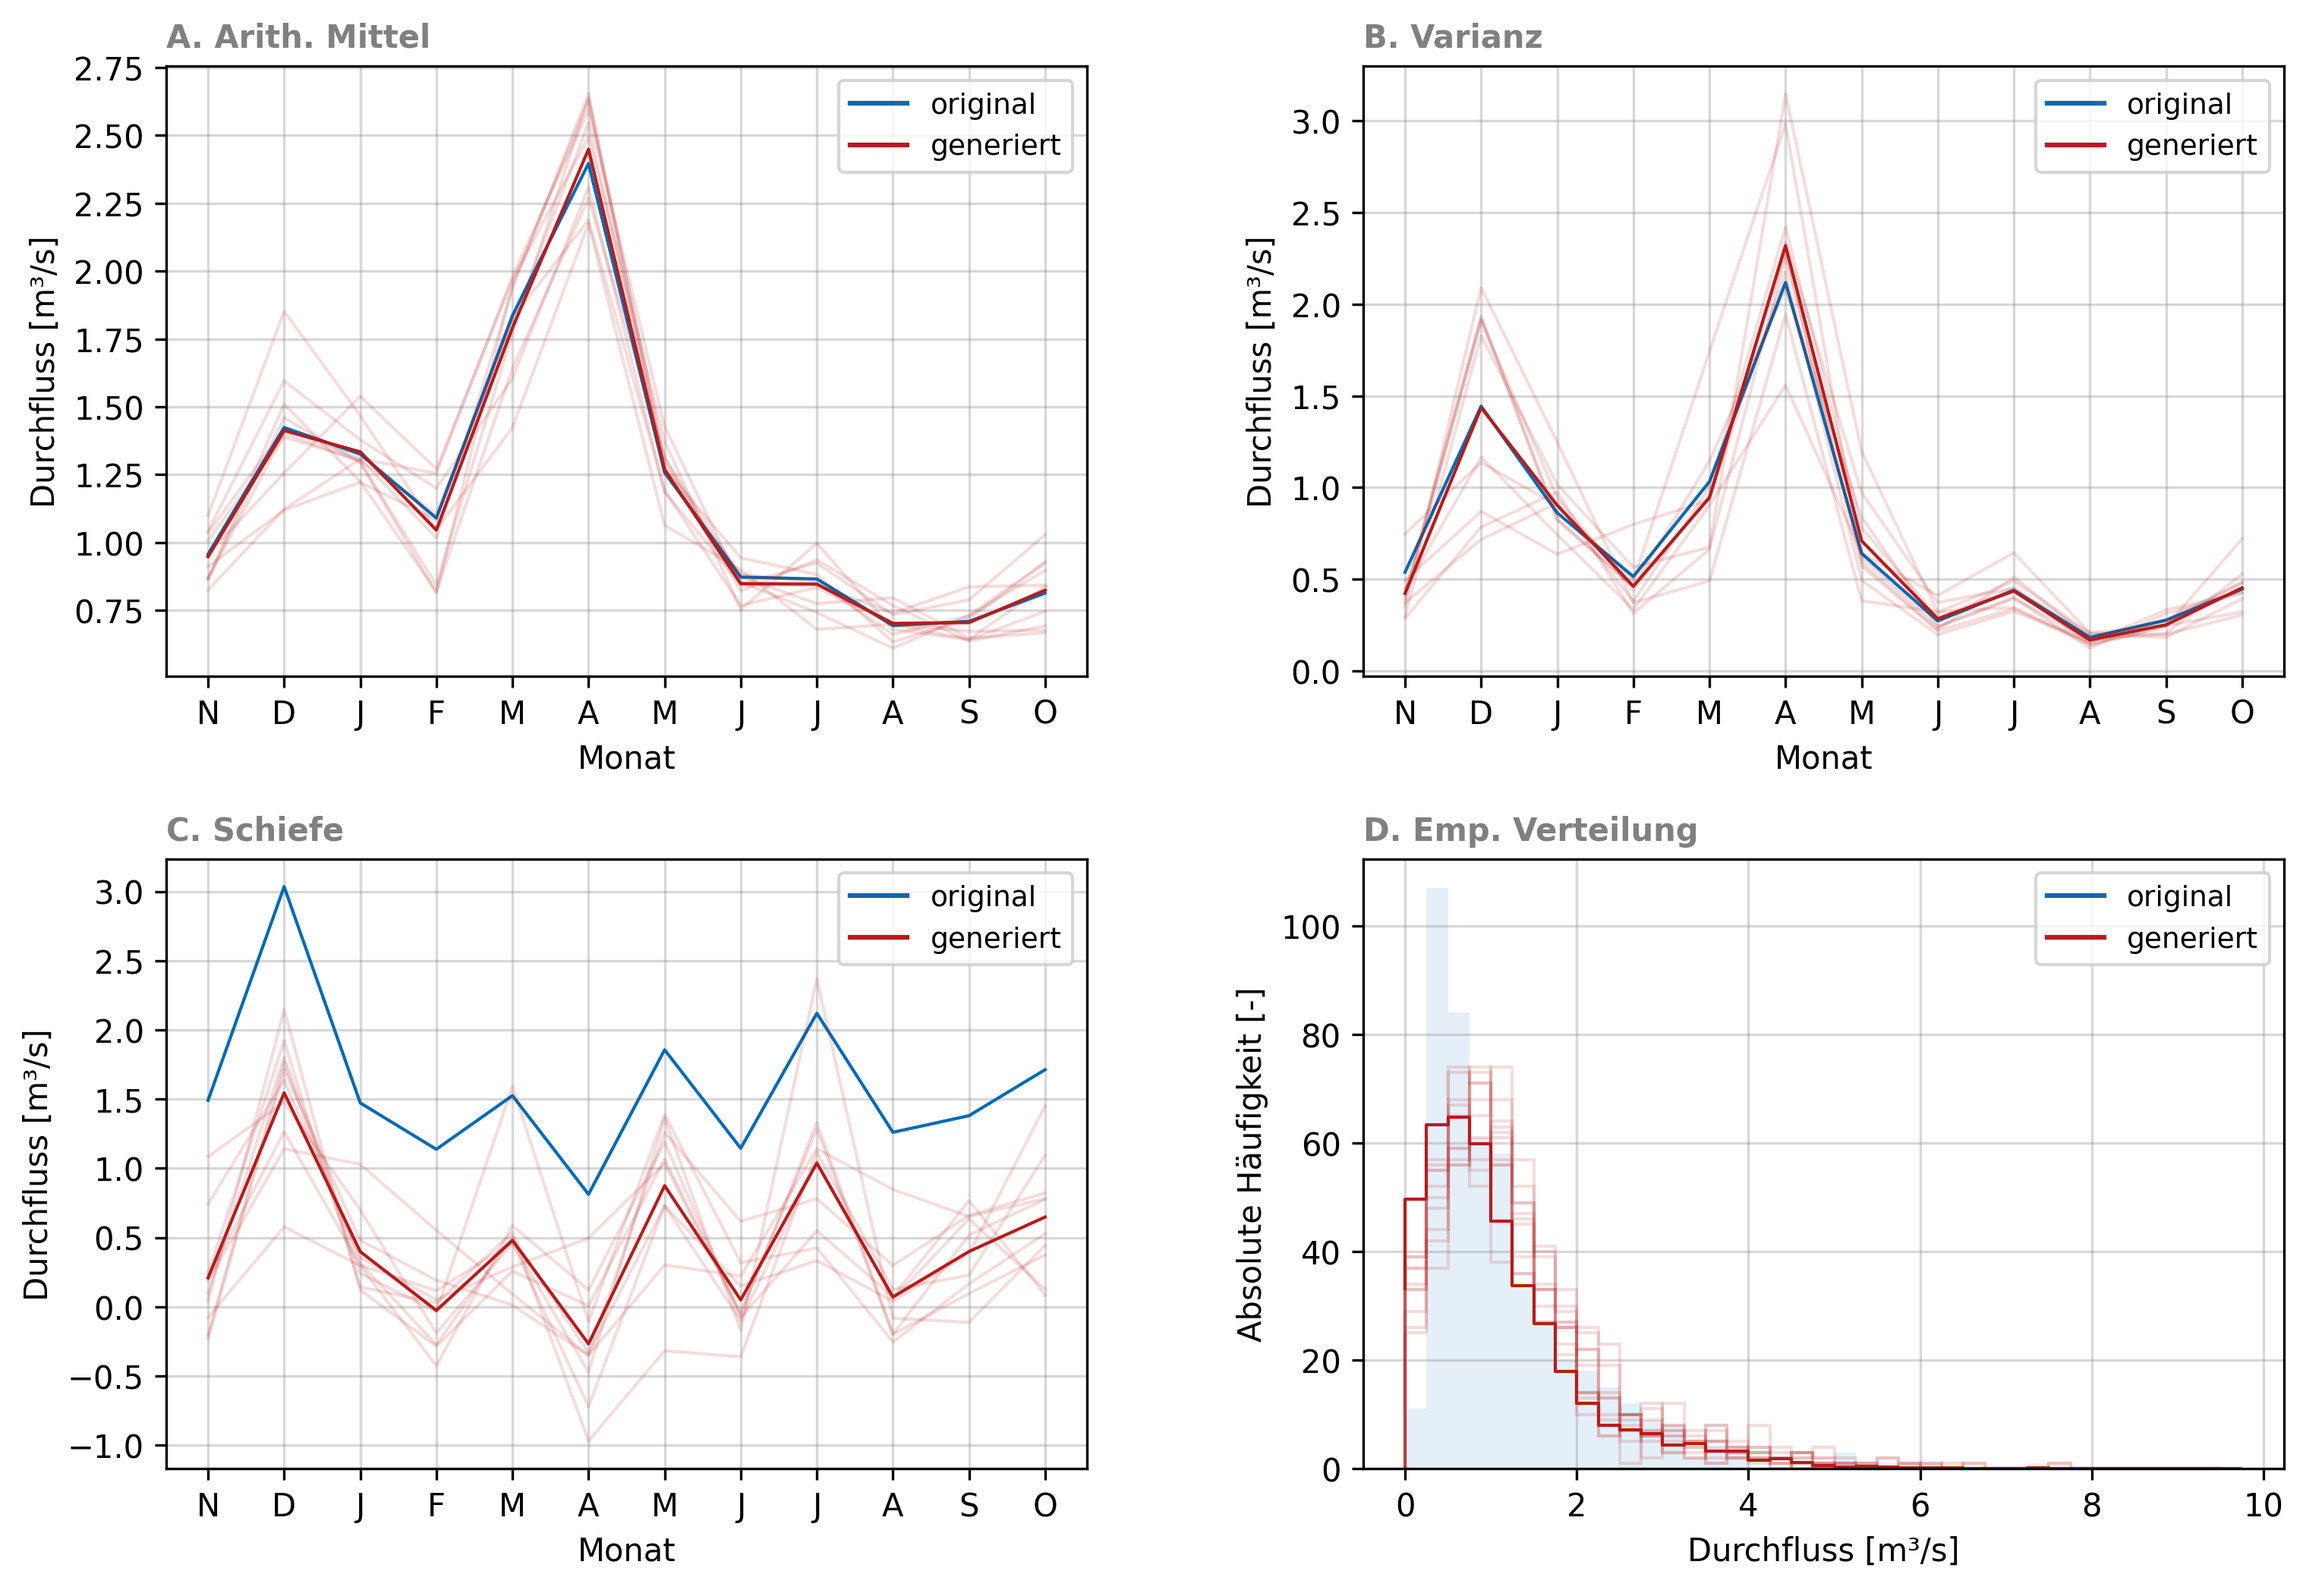
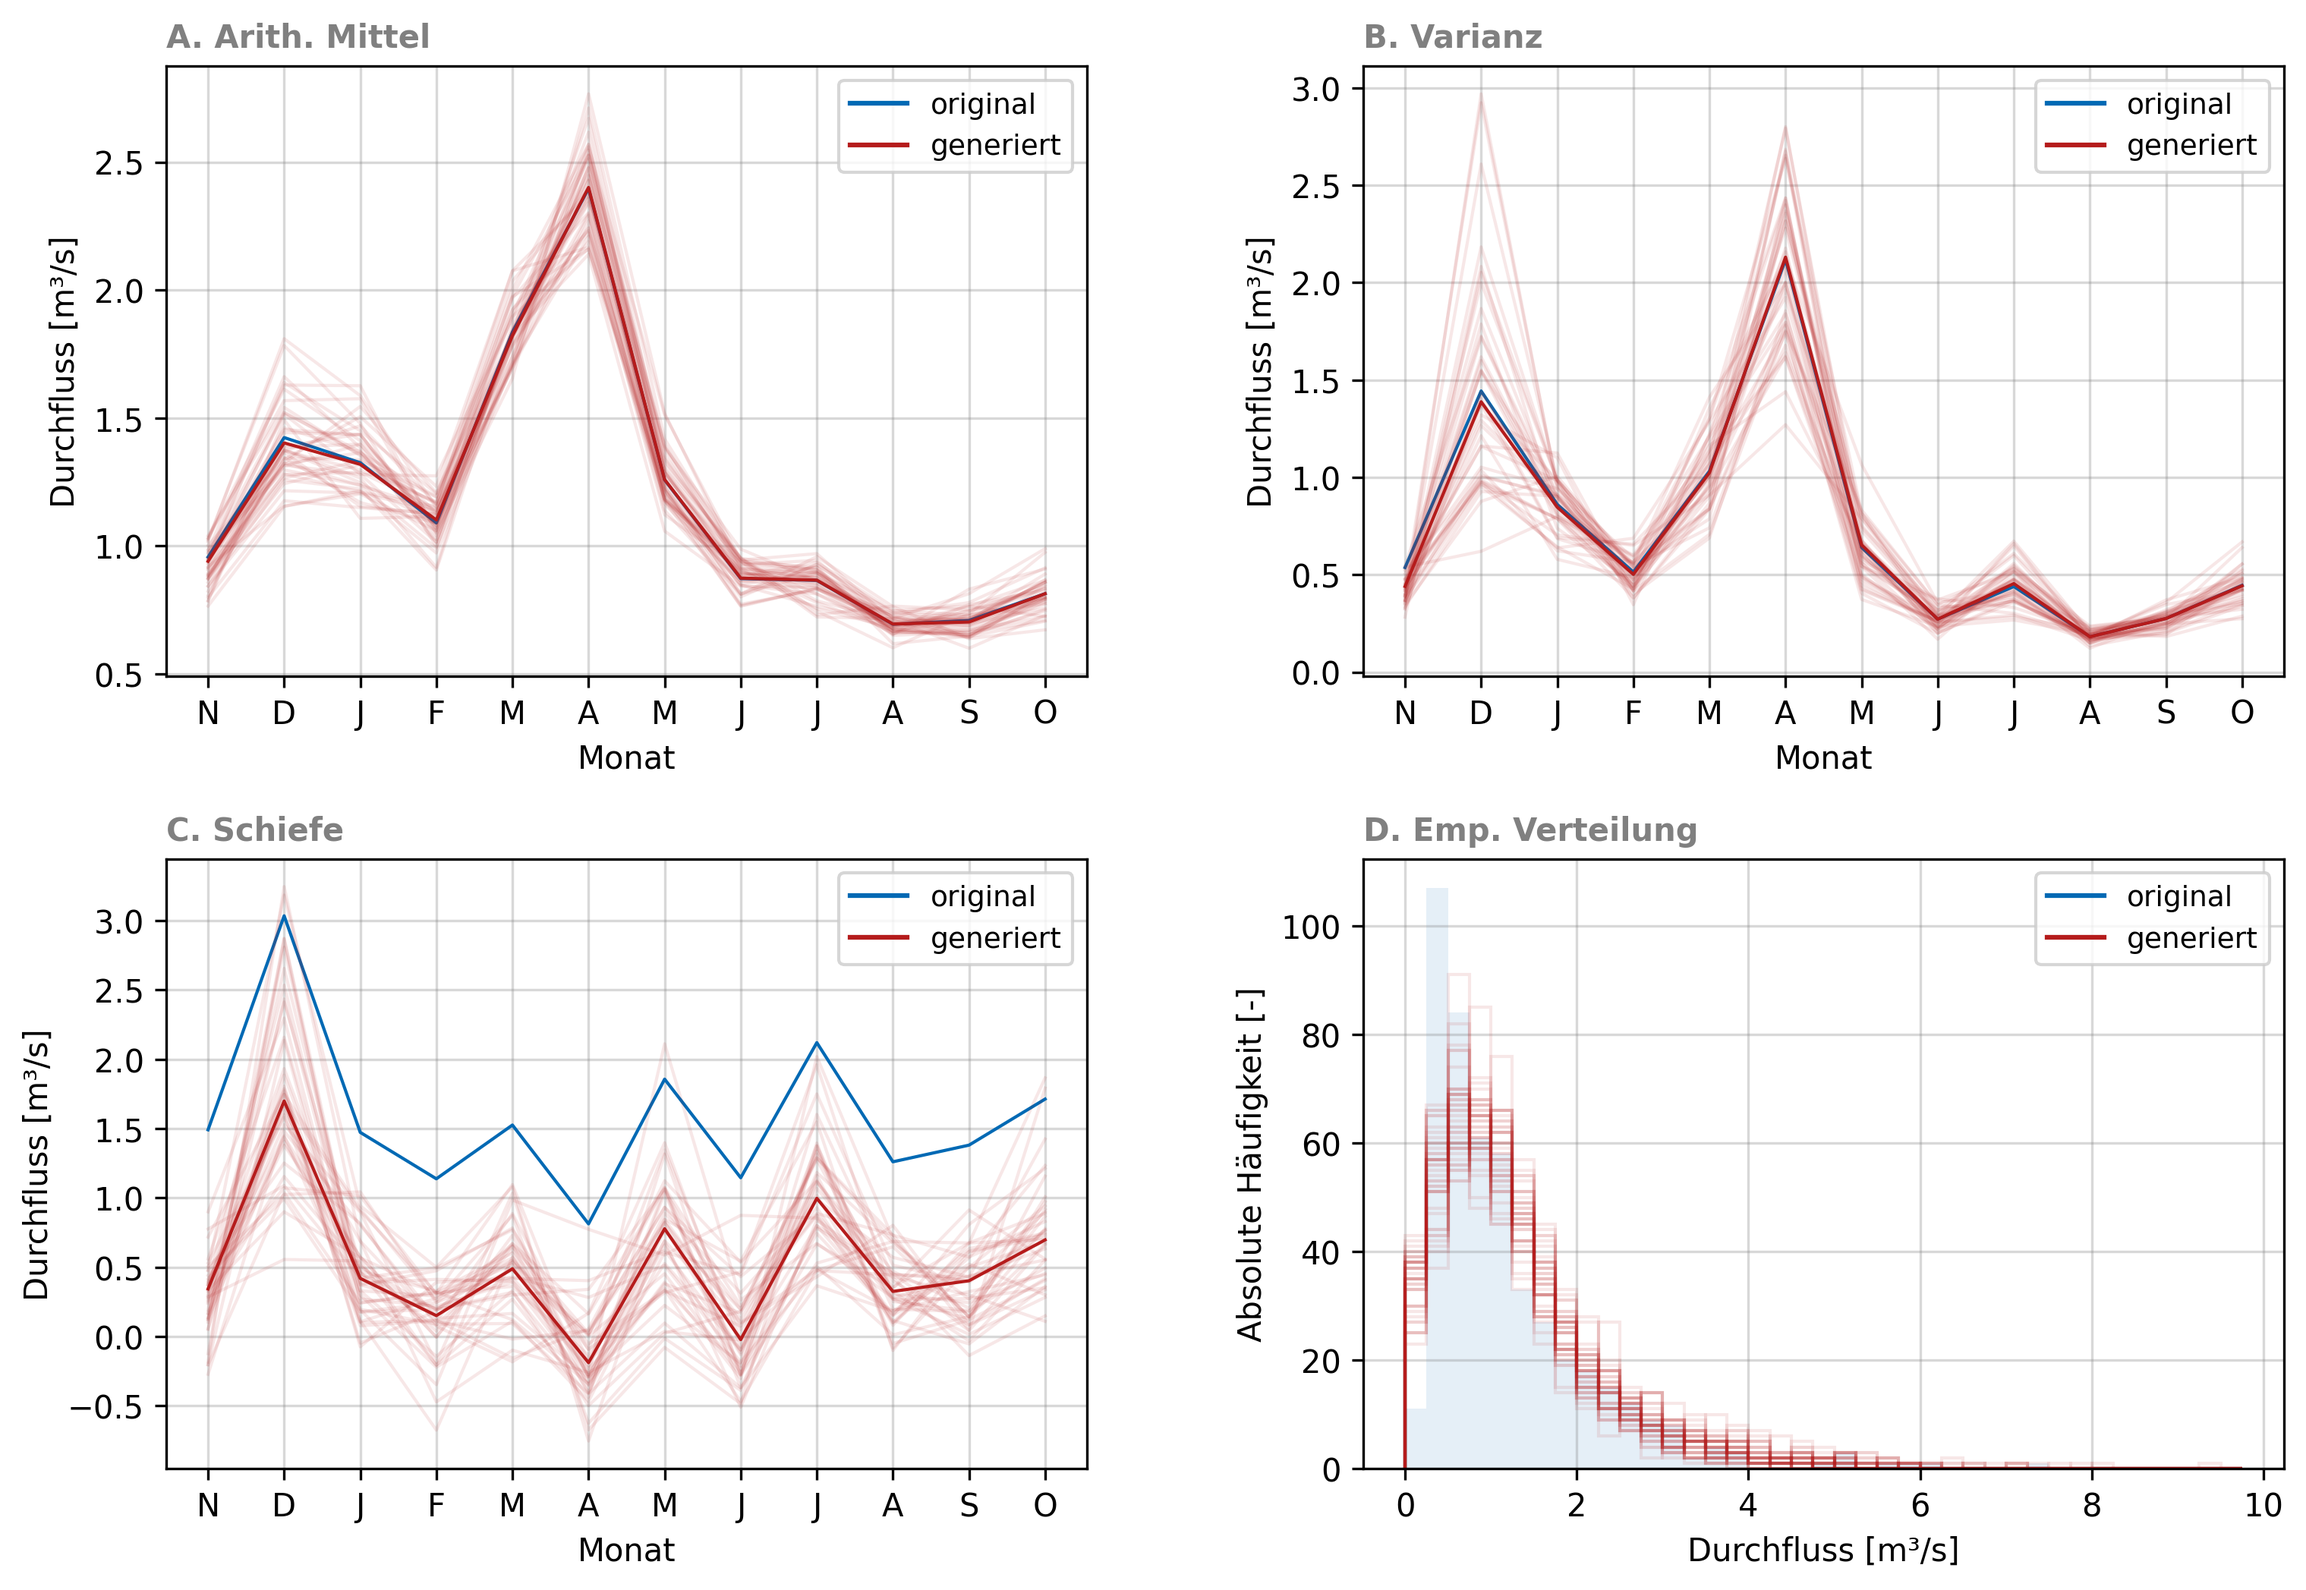
Update plot_thomasfierung_eval to new time series lengths

diff --git a/code/utils/plotting.py b/code/utils/plotting.py
@@ -464,18 +464,20 @@ def plot_thomasfierung_eval(raw_data: pd.DataFrame, gen_data: pd.DataFrame):
         skews.append(s)
         hists.append(h)
         
-        axs[0,0].plot(x, m, color=tu_red, alpha=0.15, lw=1)
-        axs[0,1].plot(x, v, color=tu_red, alpha=0.15, lw=1)
-        axs[1,0].plot(x, s, color=tu_red, alpha=0.15, lw=1)
-        axs[1,1].hist(gen_i.ravel()[:len(raw_data)], bins=bins, 
-                      histtype="step", density=False, alpha=0.15, color=tu_red)
+        # Plot only first 40 time series
+        if i < 40:
+            axs[0,0].plot(x, m, color=tu_red, alpha=0.1, lw=1)
+            axs[0,1].plot(x, v, color=tu_red, alpha=0.1, lw=1)
+            axs[1,0].plot(x, s, color=tu_red, alpha=0.1, lw=1)
+            axs[1,1].hist(gen_i.ravel()[:len(raw_data)], bins=bins, 
+                        histtype="step", density=False, alpha=0.1, color=tu_red)
 
     # gen data means    
     axs[0,0].plot(x, np.mean(means, axis=0), color=tu_red, alpha=1, lw=1)
     axs[0,1].plot(x, np.mean(vars, axis=0), color=tu_red, alpha=1, lw=1)
     axs[1,0].plot(x, np.mean(skews, axis=0), color=tu_red, alpha=1, lw=1)
-    axs[1,1].step(bins[:-1], np.mean([h[0] for h in hists], axis=0), 
-                  color=tu_red, alpha=1, lw=1) 
+    # axs[1,1].step(bins[:-1], np.mean([h[0] for h in hists], axis=0), 
+    #               color=tu_red, alpha=1, lw=1) 
 
     # plotting config
     for i in range(4):
